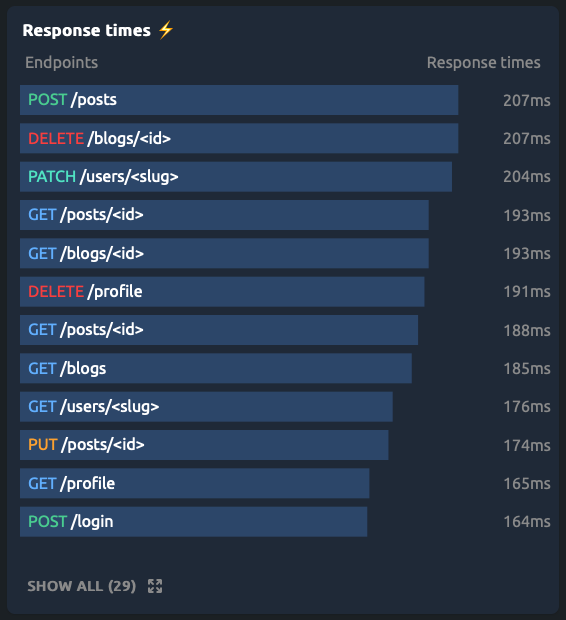
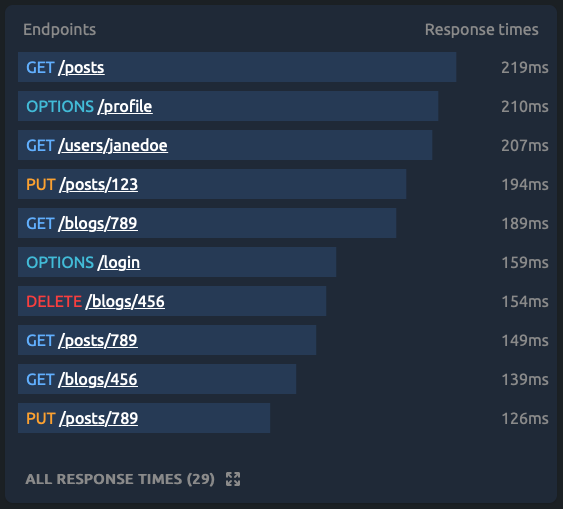
Update dashboard screenshots and documentation

diff --git a/src/components/dashboard/EndpointMetrics.tsx b/src/components/dashboard/EndpointMetrics.tsx
@@ -141,6 +141,9 @@ export const EndpointMetrics: React.FC<Props> = ({
               <EndpointMetricStats title="Request sizes" unit="kB" {...requestSizes} />
               <EndpointMetricStats title="Response sizes" unit="kB" {...responseSizes} />
               <p className="text-sm mt-4">
+                See our <Link href={staticRoutes.dashboard}>docs</Link> for more details about these
+                metrics.
+                <br />
                 Combine this endpoint with your other endpoints with our{' '}
                 <Link href={dynamicRoutes.originDynamicRoutes({ slug })}>dynamic routes</Link>.
               </p>

diff --git a/src/pages/origins/[slug]/index.tsx b/src/pages/origins/[slug]/index.tsx
@@ -86,8 +86,9 @@ const Origin: NextPage = () => {
         <div className="mt-4">
           <ErrorsTimeFrame timeFrame={timeFrame} metrics={metrics} />
         </div>
-        <p className="mt-4 text-center">
-          Help us improve this dashboard by{' '}
+        <p className="mt-4">
+          See our <Link href={staticRoutes.dashboard}>docs</Link> for more details about these
+          metrics. Help us improve this dashboard by{' '}
           <Link href={staticRoutes.contact}>
             <a>giving us feedback</a>
           </Link>

diff --git a/src/pages/demo.tsx b/src/pages/demo.tsx
@@ -55,6 +55,10 @@ const Demo: NextPage = () => {
         <div className="mt-4">
           <ErrorsTimeFrame timeFrame={timeFrame} metrics={metrics} />
         </div>
+        <p className="mt-4">
+          See our <Link href={staticRoutes.dashboard}>docs</Link> for more details about these
+          metrics.
+        </p>
         <div className="py-4 sm:py-8">
           <div className="flex flex-col sm:flex-row gap-8">
             <div className="grow">
